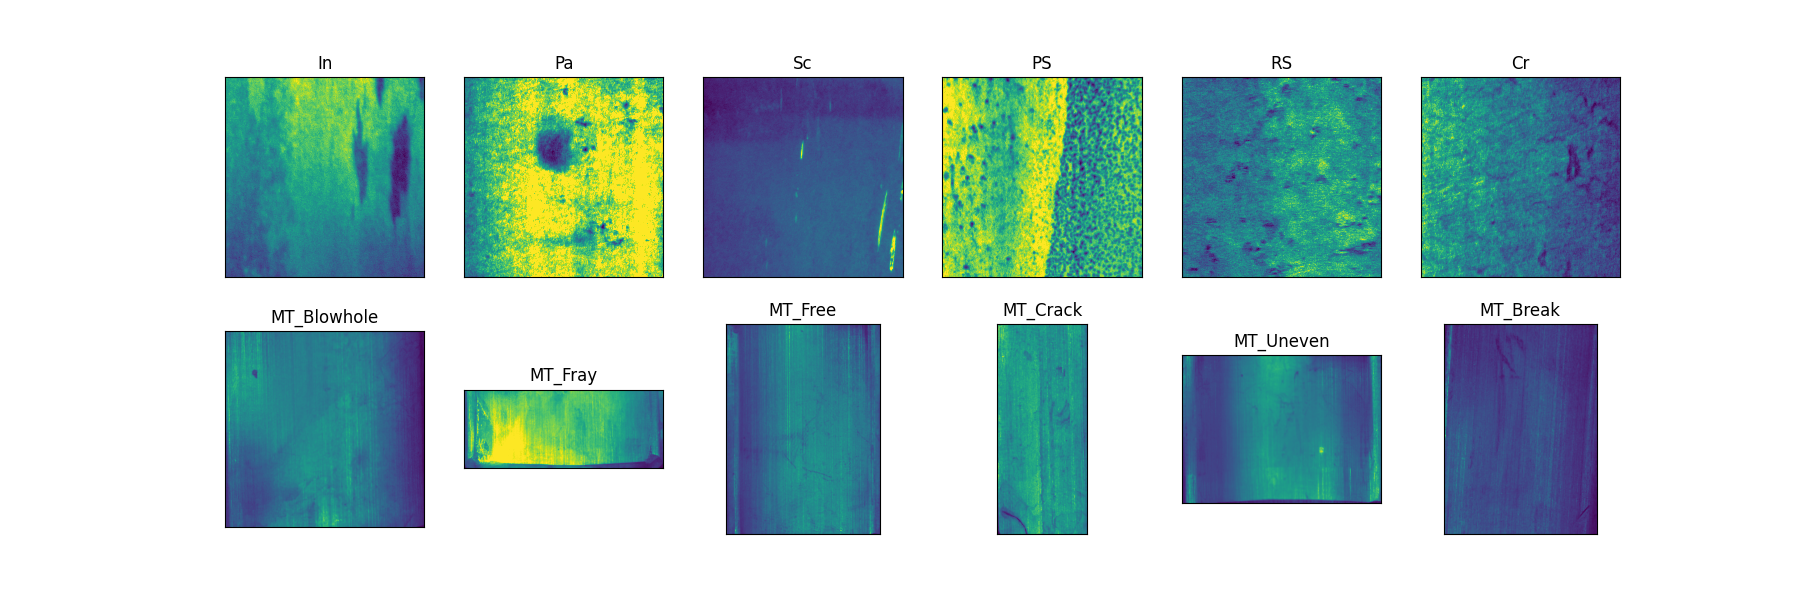
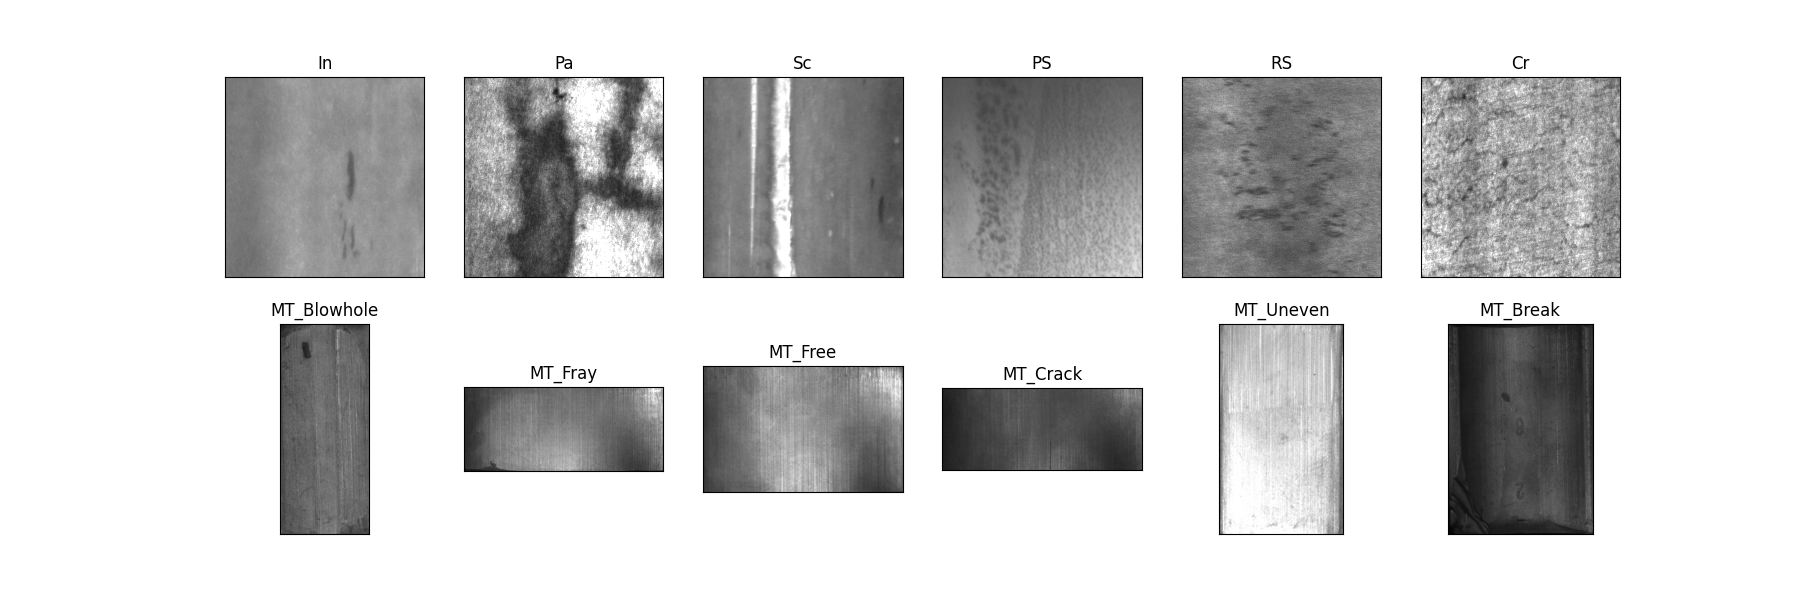
07071911

diff --git a/My_TAOD/image_viewer.py b/My_TAOD/image_viewer.py
@@ -42,7 +42,7 @@ df = pd.concat([df1, df2])
 images = []
 names = []
 for i in zip(df['Image_Path'], df['Image_Class']):
-    images.append(Image.open(i[0]).convert('L')) # type: ignore
+    images.append(Image.open(i[0]).convert('RGB')) # type: ignore
     names.append(str(i[1])) # type: ignore
 
 images_trans = []
